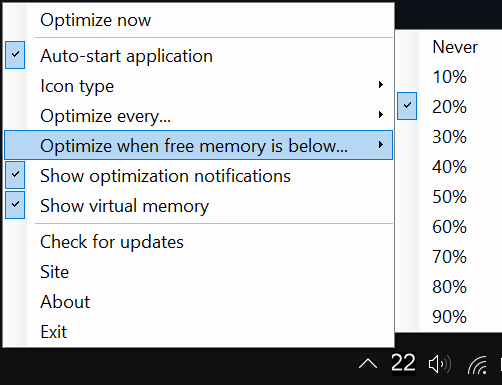
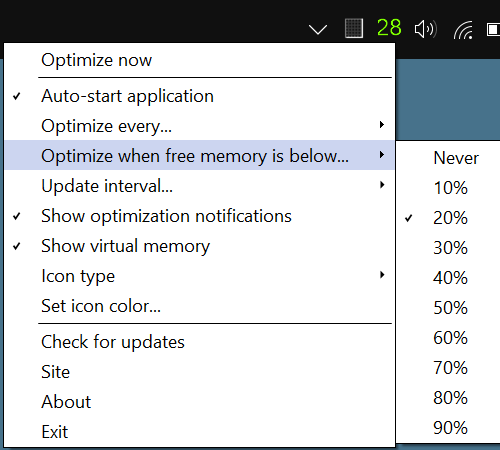
"Update Interval" menu option

diff --git a/memoryOptimizer/Engine/Settings.cs b/memoryOptimizer/Engine/Settings.cs
@@ -11,6 +11,7 @@ namespace memoryOptimizer {
     static Settings() {
       AutoOptimizationInterval = 0;
       AutoOptimizationMemoryUsage = 0;
+      UpdateIntervalSeconds = 30;
       MemoryAreas = Enums.Memory.Areas.CombinedPageList | Enums.Memory.Areas.ModifiedPageList |
                     Enums.Memory.Areas.ProcessesWorkingSet | Enums.Memory.Areas.StandbyList |
                     Enums.Memory.Areas.SystemWorkingSet;
@@ -23,21 +24,20 @@ namespace memoryOptimizer {
       TrayIconValueColor = taskbarColor.IsDark() ? Color.White : Color.Black;
 
       try {
-        using (var key = Registry.CurrentUser.OpenSubKey(Constants.App.Registry.Key.ProcessExclusionList)) {
+        using (var key = Registry.CurrentUser.OpenSubKey(Constants.RegistryKey.ProcessExclusionList)) {
           if (key != null) {
             foreach (var name in key.GetValueNames())
               ProcessExclusionList.Add(name.RemoveWhitespaces().Replace(".exe", string.Empty).ToLower());
           }
         }
 
-        using (var key = Registry.CurrentUser.OpenSubKey(Constants.App.Registry.Key.Settings)) {
+        using (var key = Registry.CurrentUser.OpenSubKey(Constants.RegistryKey.Settings)) {
           if (key == null) return;
-          AutoOptimizationInterval = Convert.ToInt32(key.GetValue(Constants.App.Registry.Name.AutoOptimizationInterval,
-            AutoOptimizationInterval));
-          AutoOptimizationMemoryUsage = Convert.ToInt32(key.GetValue(Constants.App.Registry.Name.AutoOptimizationMemoryUsage,
-            AutoOptimizationMemoryUsage));
+          AutoOptimizationInterval = Convert.ToInt32(key.GetValue(Constants.RegistryName.AutoOptimizationInterval, AutoOptimizationInterval));
+          AutoOptimizationMemoryUsage = Convert.ToInt32(key.GetValue(Constants.RegistryName.AutoOptimizationMemoryUsage, AutoOptimizationMemoryUsage));
+          UpdateIntervalSeconds = Convert.ToInt32(key.GetValue(Constants.RegistryName.UpdateIntervalSeconds, UpdateIntervalSeconds));
 
-          if (Enum.TryParse(Convert.ToString(key.GetValue(Constants.App.Registry.Name.MemoryAreas, MemoryAreas)),
+          if (Enum.TryParse(Convert.ToString(key.GetValue(Constants.RegistryName.MemoryAreas, MemoryAreas)),
                 out Enums.Memory.Areas memoryAreas) && memoryAreas.IsValid()) {
             if ((memoryAreas & Enums.Memory.Areas.StandbyList) != 0 &&
                 (memoryAreas & Enums.Memory.Areas.StandbyListLowPriority) != 0)
@@ -46,18 +46,18 @@ namespace memoryOptimizer {
             MemoryAreas = memoryAreas;
           }
 
-          if (Enum.TryParse(Convert.ToString(key.GetValue(Constants.App.Registry.Name.RunOnPriority, RunOnPriority)),
+          if (Enum.TryParse(Convert.ToString(key.GetValue(Constants.RegistryName.RunOnPriority, RunOnPriority)),
                 out Enums.Priority runOnPriority) && runOnPriority.IsValid())
             RunOnPriority = runOnPriority;
 
-          ShowOptimizationNotifications = Convert.ToBoolean(key.GetValue(Constants.App.Registry.Name.ShowOptimizationNotifications, ShowOptimizationNotifications));
-          ShowVirtualMemory = Convert.ToBoolean(key.GetValue(Constants.App.Registry.Name.ShowVirtualMemory, ShowVirtualMemory));
+          ShowOptimizationNotifications = Convert.ToBoolean(key.GetValue(Constants.RegistryName.ShowOptimizationNotifications, ShowOptimizationNotifications));
+          ShowVirtualMemory = Convert.ToBoolean(key.GetValue(Constants.RegistryName.ShowVirtualMemory, ShowVirtualMemory));
 
-          if (Enum.TryParse(Convert.ToString(key.GetValue(Constants.App.Registry.Name.TrayIcon, TrayIconMode)),
+          if (Enum.TryParse(Convert.ToString(key.GetValue(Constants.RegistryName.TrayIcon, TrayIconMode)),
                 out Enums.TrayIconMode trayIcon) && trayIcon.IsValid())
             TrayIconMode = trayIcon;
 
-          TrayIconValueColor = Color.FromArgb(Convert.ToInt32(key.GetValue(Constants.App.Registry.Name.TrayIconValueColor, 0)));
+          TrayIconValueColor = Color.FromArgb(Convert.ToInt32(key.GetValue(Constants.RegistryName.TrayIconValueColor, 0)));
         }
       }
       catch (Exception e) {
@@ -70,6 +70,7 @@ namespace memoryOptimizer {
 
     public static int AutoOptimizationInterval { get; set; }
     public static int AutoOptimizationMemoryUsage { get; set; }
+    public static int UpdateIntervalSeconds { get; set; }
     public static Enums.Memory.Areas MemoryAreas { get; set; }
     public static SortedSet<string> ProcessExclusionList { get; }
     public static Enums.Priority RunOnPriority { get; set; }
@@ -80,10 +81,10 @@ namespace memoryOptimizer {
 
     public static void Save() {
       try {
-        Registry.CurrentUser.DeleteSubKey(Constants.App.Registry.Key.ProcessExclusionList, false);
+        Registry.CurrentUser.DeleteSubKey(Constants.RegistryKey.ProcessExclusionList, false);
 
         if (ProcessExclusionList.Any()) {
-          using (var key = Registry.CurrentUser.CreateSubKey(Constants.App.Registry.Key.ProcessExclusionList)) {
+          using (var key = Registry.CurrentUser.CreateSubKey(Constants.RegistryKey.ProcessExclusionList)) {
             if (key != null) {
               foreach (var process in ProcessExclusionList)
                 key.SetValue(process.RemoveWhitespaces().Replace(".exe", string.Empty).ToLower(), string.Empty,
@@ -92,16 +93,17 @@ namespace memoryOptimizer {
           }
         }
 
-        using (var key = Registry.CurrentUser.CreateSubKey(Constants.App.Registry.Key.Settings)) {
+        using (var key = Registry.CurrentUser.CreateSubKey(Constants.RegistryKey.Settings)) {
           if (key == null) return;
-          key.SetValue(Constants.App.Registry.Name.AutoOptimizationInterval, AutoOptimizationInterval);
-          key.SetValue(Constants.App.Registry.Name.AutoOptimizationMemoryUsage, AutoOptimizationMemoryUsage);
-          key.SetValue(Constants.App.Registry.Name.MemoryAreas, (int) MemoryAreas);
-          key.SetValue(Constants.App.Registry.Name.RunOnPriority, (int) RunOnPriority);
-          key.SetValue(Constants.App.Registry.Name.ShowOptimizationNotifications, ShowOptimizationNotifications ? 1 : 0);
-          key.SetValue(Constants.App.Registry.Name.ShowVirtualMemory, ShowVirtualMemory ? 1 : 0);
-          key.SetValue(Constants.App.Registry.Name.TrayIcon, (int) TrayIconMode);
-          key.SetValue(Constants.App.Registry.Name.TrayIconValueColor, TrayIconValueColor.ToArgb());
+          key.SetValue(Constants.RegistryName.AutoOptimizationInterval, AutoOptimizationInterval);
+          key.SetValue(Constants.RegistryName.AutoOptimizationMemoryUsage, AutoOptimizationMemoryUsage);
+          key.SetValue(Constants.RegistryName.UpdateIntervalSeconds, UpdateIntervalSeconds);
+          key.SetValue(Constants.RegistryName.MemoryAreas, (int) MemoryAreas);
+          key.SetValue(Constants.RegistryName.RunOnPriority, (int) RunOnPriority);
+          key.SetValue(Constants.RegistryName.ShowOptimizationNotifications, ShowOptimizationNotifications ? 1 : 0);
+          key.SetValue(Constants.RegistryName.ShowVirtualMemory, ShowVirtualMemory ? 1 : 0);
+          key.SetValue(Constants.RegistryName.TrayIcon, (int) TrayIconMode);
+          key.SetValue(Constants.RegistryName.TrayIconValueColor, TrayIconValueColor.ToArgb());
         }
       }
       catch (Exception e) {

diff --git a/memoryOptimizer/TrayApplicationContext.cs b/memoryOptimizer/TrayApplicationContext.cs
@@ -15,11 +15,6 @@ namespace memoryOptimizer {
   internal class TrayApplicationContext : ApplicationContext {
 
     private readonly IContainer components = new Container();
-#if DEBUG
-    private const int MonitorAppIntervalSeconds = 30;
-#else
-    private const int MonitorAppIntervalSeconds = 60;
-#endif    
     private const int AutoOptimizationMemoryUsageInterval = 5; // Minute
 
     private readonly Icon imageIcon;
@@ -30,6 +25,7 @@ namespace memoryOptimizer {
     private ToolStripMenuItem iconTypeMenu;
     private ToolStripMenuItem autoOptimizeEveryMenu;
     private ToolStripMenuItem autoOptimizeUsageMenu;
+    private ToolStripMenuItem updateIntervalMenu;
     private Brush iconValueBrush;
     private bool isBusy;
 
@@ -345,7 +341,7 @@ namespace memoryOptimizer {
               }
             }
           }
-          Thread.Sleep(MonitorAppIntervalSeconds * 1000);
+          Thread.Sleep(Settings.UpdateIntervalSeconds * 1000);
         }
         catch (Exception ex) {
           Logger.Debug(ex.GetMessage());
@@ -467,6 +463,7 @@ namespace memoryOptimizer {
           (_, _) => { Settings.AutoOptimizationInterval = interval; }));
       }
       notifyIcon.ContextMenuStrip.Items.Add(autoOptimizeEveryMenu);
+
       autoOptimizeUsageMenu = new ToolStripMenuItem("Optimize when free memory is below...") {
         DropDownItems = {
           new ToolStripMenuItem("Never", null, (_, _) => { Settings.AutoOptimizationMemoryUsage = 0; }),
@@ -478,6 +475,19 @@ namespace memoryOptimizer {
           (_, _) => { Settings.AutoOptimizationMemoryUsage = percents; }));
       }
       notifyIcon.ContextMenuStrip.Items.Add(autoOptimizeUsageMenu);
+
+      updateIntervalMenu = new ToolStripMenuItem("Update interval...") {
+        DropDownItems = {
+          new ToolStripMenuItem("1 sec", null, (_, _) => { Settings.UpdateIntervalSeconds = 1; }){Tag = 1},
+          new ToolStripMenuItem("2 sec", null, (_, _) => { Settings.UpdateIntervalSeconds = 2; }){Tag = 2},
+          new ToolStripMenuItem("3 sec", null, (_, _) => { Settings.UpdateIntervalSeconds = 3; }){Tag = 3},
+          new ToolStripMenuItem("5 sec", null, (_, _) => { Settings.UpdateIntervalSeconds = 5; }){Tag = 5},
+          new ToolStripMenuItem("10 sec", null, (_, _) => { Settings.UpdateIntervalSeconds = 10; }){Tag = 10},
+          new ToolStripMenuItem("30 sec", null, (_, _) => { Settings.UpdateIntervalSeconds = 30; }){Tag = 30},
+          new ToolStripMenuItem("60 sec", null, (_, _) => { Settings.UpdateIntervalSeconds = 60; }){Tag = 60},
+        }
+      };
+      notifyIcon.ContextMenuStrip.Items.Add(updateIntervalMenu);
 
       //settings
       notifyIcon.ContextMenuStrip.Items.Add(new ToolStripMenuItem("Show optimization notifications", null, (sender, _) => {
@@ -533,6 +543,11 @@ namespace memoryOptimizer {
         ((ToolStripMenuItem) autoOptimizeEveryMenu.DropDownItems[i]).Checked = Settings.AutoOptimizationInterval == i;
       for (var i = 0; i < 10; i ++)
         ((ToolStripMenuItem) autoOptimizeUsageMenu.DropDownItems[i]).Checked = Settings.AutoOptimizationMemoryUsage == i * 10;
+      
+      foreach (var subItem in updateIntervalMenu.DropDownItems) {
+        if (subItem is not ToolStripMenuItem subMenuItem) continue;
+        subMenuItem.Checked = subMenuItem.Tag is int intTag && intTag == Settings.UpdateIntervalSeconds;
+      }  
     }
 
     private void OnNotifyIconMouseUp(object sender, MouseEventArgs e) {

diff --git a/memoryOptimizer/Engine/Constants.cs b/memoryOptimizer/Engine/Constants.cs
@@ -2,25 +2,21 @@
   
   internal static class Constants {
     
-    public static class App {
-      
-      public static class Registry {
-        public static class Key {
-          public const string ProcessExclusionList = @"SOFTWARE\sergiye\memoryOptimizer\ProcessExclusionList";
-          public const string Settings = @"SOFTWARE\sergiye\memoryOptimizer";
-        }
+    public static class RegistryKey {
+      public const string Settings = @"SOFTWARE\sergiye\memoryOptimizer";
+      public const string ProcessExclusionList = Settings + @"\ProcessExclusionList";
+    }
 
-        public static class Name {
-          public const string AutoOptimizationInterval = "AutoOptimizationInterval";
-          public const string AutoOptimizationMemoryUsage = "AutoOptimizationMemoryUsage";
-          public const string MemoryAreas = "MemoryAreas";
-          public const string RunOnPriority = "RunOnPriority";
-          public const string ShowOptimizationNotifications = "ShowOptimizationNotifications";
-          public const string ShowVirtualMemory = "ShowVirtualMemory";
-          public const string TrayIcon = "TrayIcon";
-          public const string TrayIconValueColor = "TrayIconValueColor";
-        }
-      }
+    public static class RegistryName {
+      public const string AutoOptimizationInterval = "AutoOptimizationInterval";
+      public const string AutoOptimizationMemoryUsage = "AutoOptimizationMemoryUsage";
+      public const string UpdateIntervalSeconds = "UpdateIntervalSeconds";
+      public const string MemoryAreas = "MemoryAreas";
+      public const string RunOnPriority = "RunOnPriority";
+      public const string ShowOptimizationNotifications = "ShowOptimizationNotifications";
+      public const string ShowVirtualMemory = "ShowVirtualMemory";
+      public const string TrayIcon = "TrayIcon";
+      public const string TrayIconValueColor = "TrayIconValueColor";
     }
 
     public static class Windows {

diff --git a/memoryOptimizer/Properties/AssemblyInfo.cs b/memoryOptimizer/Properties/AssemblyInfo.cs
@@ -14,4 +14,4 @@ using System.Runtime.InteropServices;
 
 [assembly: Guid("E2873512-EC83-4D38-A4A9-F51F7A5A8391")]
 
-[assembly: AssemblyVersion("1.2.*")]
+[assembly: AssemblyVersion("1.3.*")]
